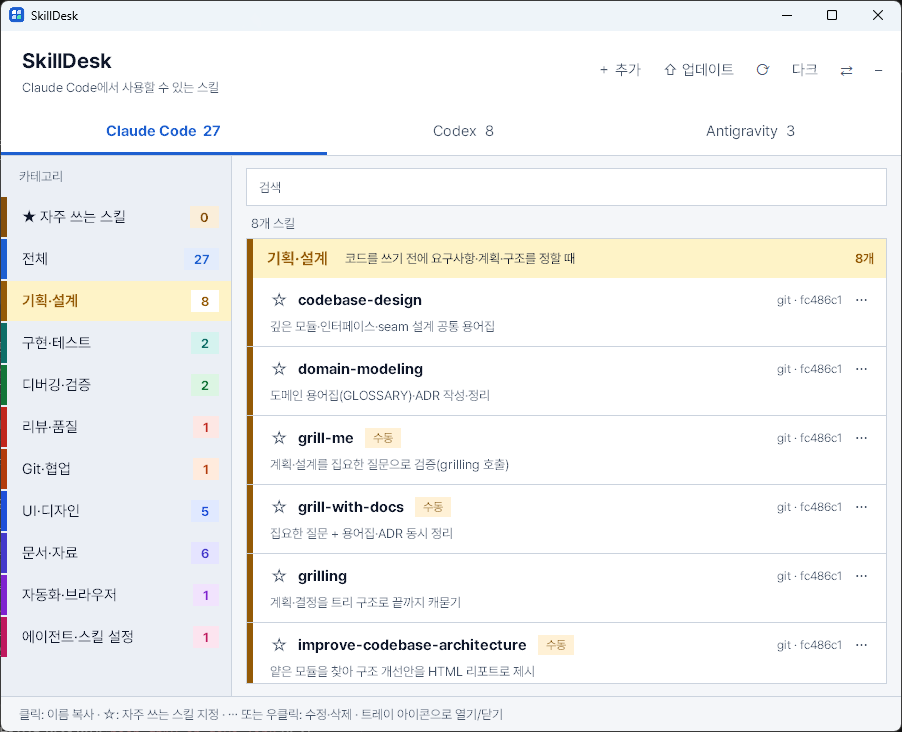
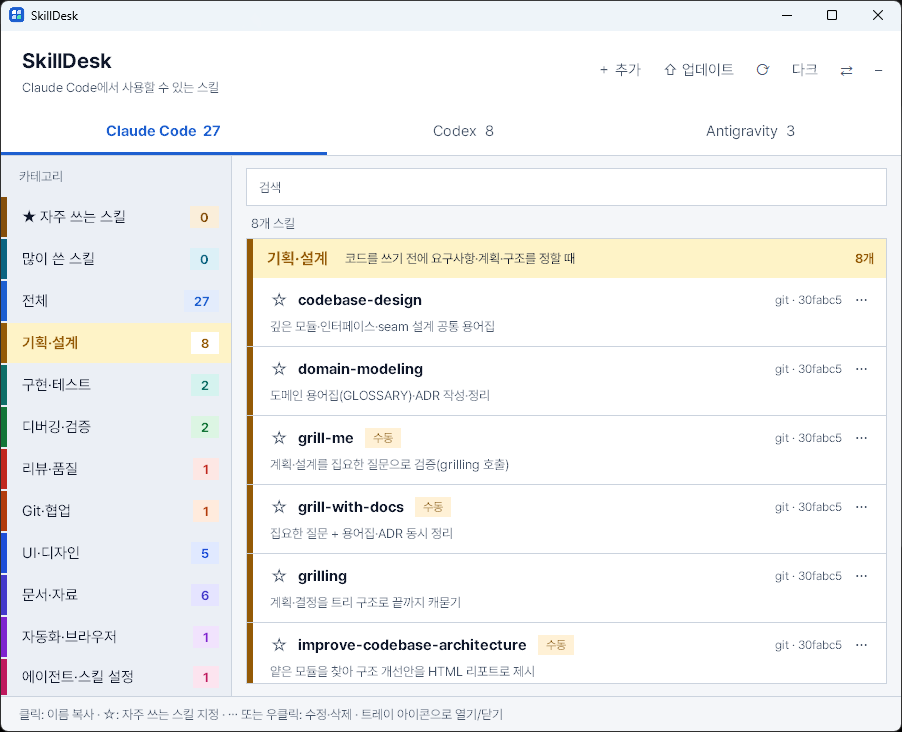
Docs: 많이 쓴 스킬 사용법과 개인정보 처리, 스크린샷 추가
- README에 호출 횟수 보기의 세는 대상, 읽는 위치, 대화 내용은 저장하지 않고 이름·달·횟수만 캐시한다는 점, Codex·Antigravity 미지원을 정리하고
  캐시 파일을 저장 위치 표에 추가
- 개발 가이드의 파일 구성·테스트 표와 CI에 `skill_usage.py`, `test_usage.py` 반영, 데모 대화 기록으로 `usage.png`를 촬영하도록 스크린샷 스크립트 확장

diff --git a/docs/make_screenshots.py b/docs/make_screenshots.py
@@ -12,6 +12,7 @@ import subprocess
 import sys
 import tempfile
 import time
+from datetime import datetime
 from pathlib import Path
 from unittest import mock
 
@@ -27,20 +28,25 @@ MANUAL = {"grill-me", "grill-with-docs", "improve-codebase-architecture", "ui-au
 GIT_SKILLS = ["grilling", "grill-me", "grill-with-docs", "domain-modeling", "codebase-design", "improve-codebase-architecture", "tdd"]
 LOCAL_SKILLS = ["ui-polish", "ui-audit", "web-design-guidelines", "pdf", "docx", "xlsx", "pptx", "deep-research", "built-in-browser"]
 SYNCED_SKILLS = ["skill-creator", "canvas-design", "theme-factory"]
-PLUGIN_SKILLS = ["brainstorming", "systematic-debugging", "writing-plans", "verification-before-completion",
-                 "requesting-code-review", "using-git-worktrees", "executing-plans"]
+PLUGIN_SKILLS = [
+    "brainstorming",
+    "systematic-debugging",
+    "writing-plans",
+    "verification-before-completion",
+    "requesting-code-review",
+    "using-git-worktrees",
+    "executing-plans",
+]
 
 
 def write_skill(d: Path, desc: str | None = None) -> None:
     d.mkdir(parents=True, exist_ok=True)
     extra = "disable-model-invocation: true\n" if d.name in MANUAL else ""
-    (d / "SKILL.md").write_text(f"---\nname: {d.name}\ndescription: {desc or 'Demo skill ' + d.name}\n{extra}---\n",
-                                encoding="utf-8")
+    (d / "SKILL.md").write_text(f"---\nname: {d.name}\ndescription: {desc or 'Demo skill ' + d.name}\n{extra}---\n", encoding="utf-8")
 
 
 def git(cwd: Path, *args: str) -> None:
-    subprocess.run(["git", "-c", "user.name=demo", "-c", "user.email=demo@example.com", *args], cwd=cwd, check=True,
-                   capture_output=True)
+    subprocess.run(["git", "-c", "user.name=demo", "-c", "user.email=demo@example.com", *args], cwd=cwd, check=True, capture_output=True)
 
 
 def demo_world(t: Path) -> Path:
@@ -65,12 +71,29 @@ def demo_world(t: Path) -> Path:
         write_skill(plugin / "skills" / n)
     (t / "claude/plugins").mkdir(parents=True, exist_ok=True)
     (t / "claude/plugins/installed_plugins.json").write_text(
-        json.dumps({"plugins": {"superpowers@demo": [{"installPath": str(plugin)}]}}), encoding="utf-8")
+        json.dumps({"plugins": {"superpowers@demo": [{"installPath": str(plugin)}]}}), encoding="utf-8"
+    )
     (t / "claude/settings.json").write_text(json.dumps({"enabledPlugins": {"superpowers@demo": True}}), encoding="utf-8")
     for n in ("skill-installer", "openai-docs"):
         write_skill(agents["Codex"] / ".system" / n)
     for n in ("ui-polish", "pdf"):
         write_skill(agents["Codex"] / n)
+    log = t / "claude/projects/demo"
+    log.mkdir(parents=True, exist_ok=True)
+    now = datetime.now().astimezone().isoformat()
+    uses = {"tdd": 14, "grilling": 9, "brainstorming": 7, "systematic-debugging": 5, "pdf": 3, "writing-plans": 2}
+    lines = [
+        json.dumps(
+            {
+                "type": "assistant",
+                "timestamp": now,
+                "message": {"content": [{"type": "tool_use", "id": f"{n}-{i}", "name": "Skill", "input": {"skill": n}}]},
+            }
+        )
+        for n, c in uses.items()
+        for i in range(c)
+    ]
+    (log / "demo.jsonl").write_text("".join(line + "\n" for line in lines), encoding="utf-8")
     mgr.create("meeting-notes", "Summarize meeting notes into a short report", ["Claude Code", "Codex"])
     mgr.set_note("meeting-notes", "회의록을 요약 보고서로 정리 (직접 만든 스킬 예시)")
     return repo
@@ -78,8 +101,10 @@ def demo_world(t: Path) -> Path:
 
 def bounds(win) -> tuple[int, int, int, int]:
     """Window rectangle including the title bar, as Windows draws it."""
+
     class RECT(ctypes.Structure):
         _fields_ = [(n, ctypes.c_long) for n in ("left", "top", "right", "bottom")]
+
     r = RECT()
     hwnd = ctypes.windll.user32.GetParent(win.winfo_id())
     ctypes.windll.dwmapi.DwmGetWindowAttribute(hwnd, 9, ctypes.byref(r), ctypes.sizeof(r))  # DWMWA_EXTENDED_FRAME_BOUNDS
@@ -88,6 +113,7 @@ def bounds(win) -> tuple[int, int, int, int]:
 
 def shot(win, name: str) -> None:
     from PIL import ImageGrab
+
     win.attributes("-topmost", True)  # the app no longer stays on top by itself; nothing may cover it while it is grabbed
     for _ in range(3):
         win.update()
@@ -102,9 +128,14 @@ def main() -> None:
     OUT.mkdir(parents=True, exist_ok=True)
     with tempfile.TemporaryDirectory() as tmp:
         t = Path(tmp)
-        with mock.patch.object(mgr, "STORE", t / "store"), mock.patch.object(mgr, "CLAUDE_HOME", t / "claude"), \
-                mock.patch.object(mgr, "UPDATER", t / "none.ps1"), mock.patch.object(mgr, "open_in_editor"), \
-                mock.patch.object(mgr, "AGENT_DIRS", dict(mgr.AGENT_DIRS)), mock.patch.object(v, "HOME", t):
+        with (
+            mock.patch.object(mgr, "STORE", t / "store"),
+            mock.patch.object(mgr, "CLAUDE_HOME", t / "claude"),
+            mock.patch.object(mgr, "UPDATER", t / "none.ps1"),
+            mock.patch.object(mgr, "open_in_editor"),
+            mock.patch.object(mgr, "AGENT_DIRS", dict(mgr.AGENT_DIRS)),
+            mock.patch.object(v, "HOME", t),
+        ):
             repo = demo_world(t)
             app = v.App(with_tray=False)
             app.load()
@@ -149,6 +180,15 @@ def main() -> None:
             app.set_agent("Codex")
             shot(app.root, "codex")
 
+            app.set_agent("Claude Code")
+            app.pick(v.USAGE)
+            end = time.time() + 15
+            while app.usage is None and time.time() < end:  # the counting runs on a worker thread
+                app.root.update()
+                app._pump()
+                time.sleep(0.05)
+            shot(app.root, "usage")
+            app.pick(None)
             app.set_agent("Claude Code")  # last, so the stars do not show up in the pictures above
             by_name = {s["name"].split(":")[-1]: s for s in app.data["Claude Code"]}
             for n in ("tdd", "grilling", "systematic-debugging", "pdf"):
@@ -157,7 +197,7 @@ def main() -> None:
             shot(app.root, "favorites")
             app.quit()
             for d in mgr.AGENT_DIRS.values():  # unlink before the temp folder is removed
-                for p in (d.iterdir() if d.is_dir() else []):
+                for p in d.iterdir() if d.is_dir() else []:
                     if mgr.is_link(p):
                         plat.unlink_dir(p)
 
